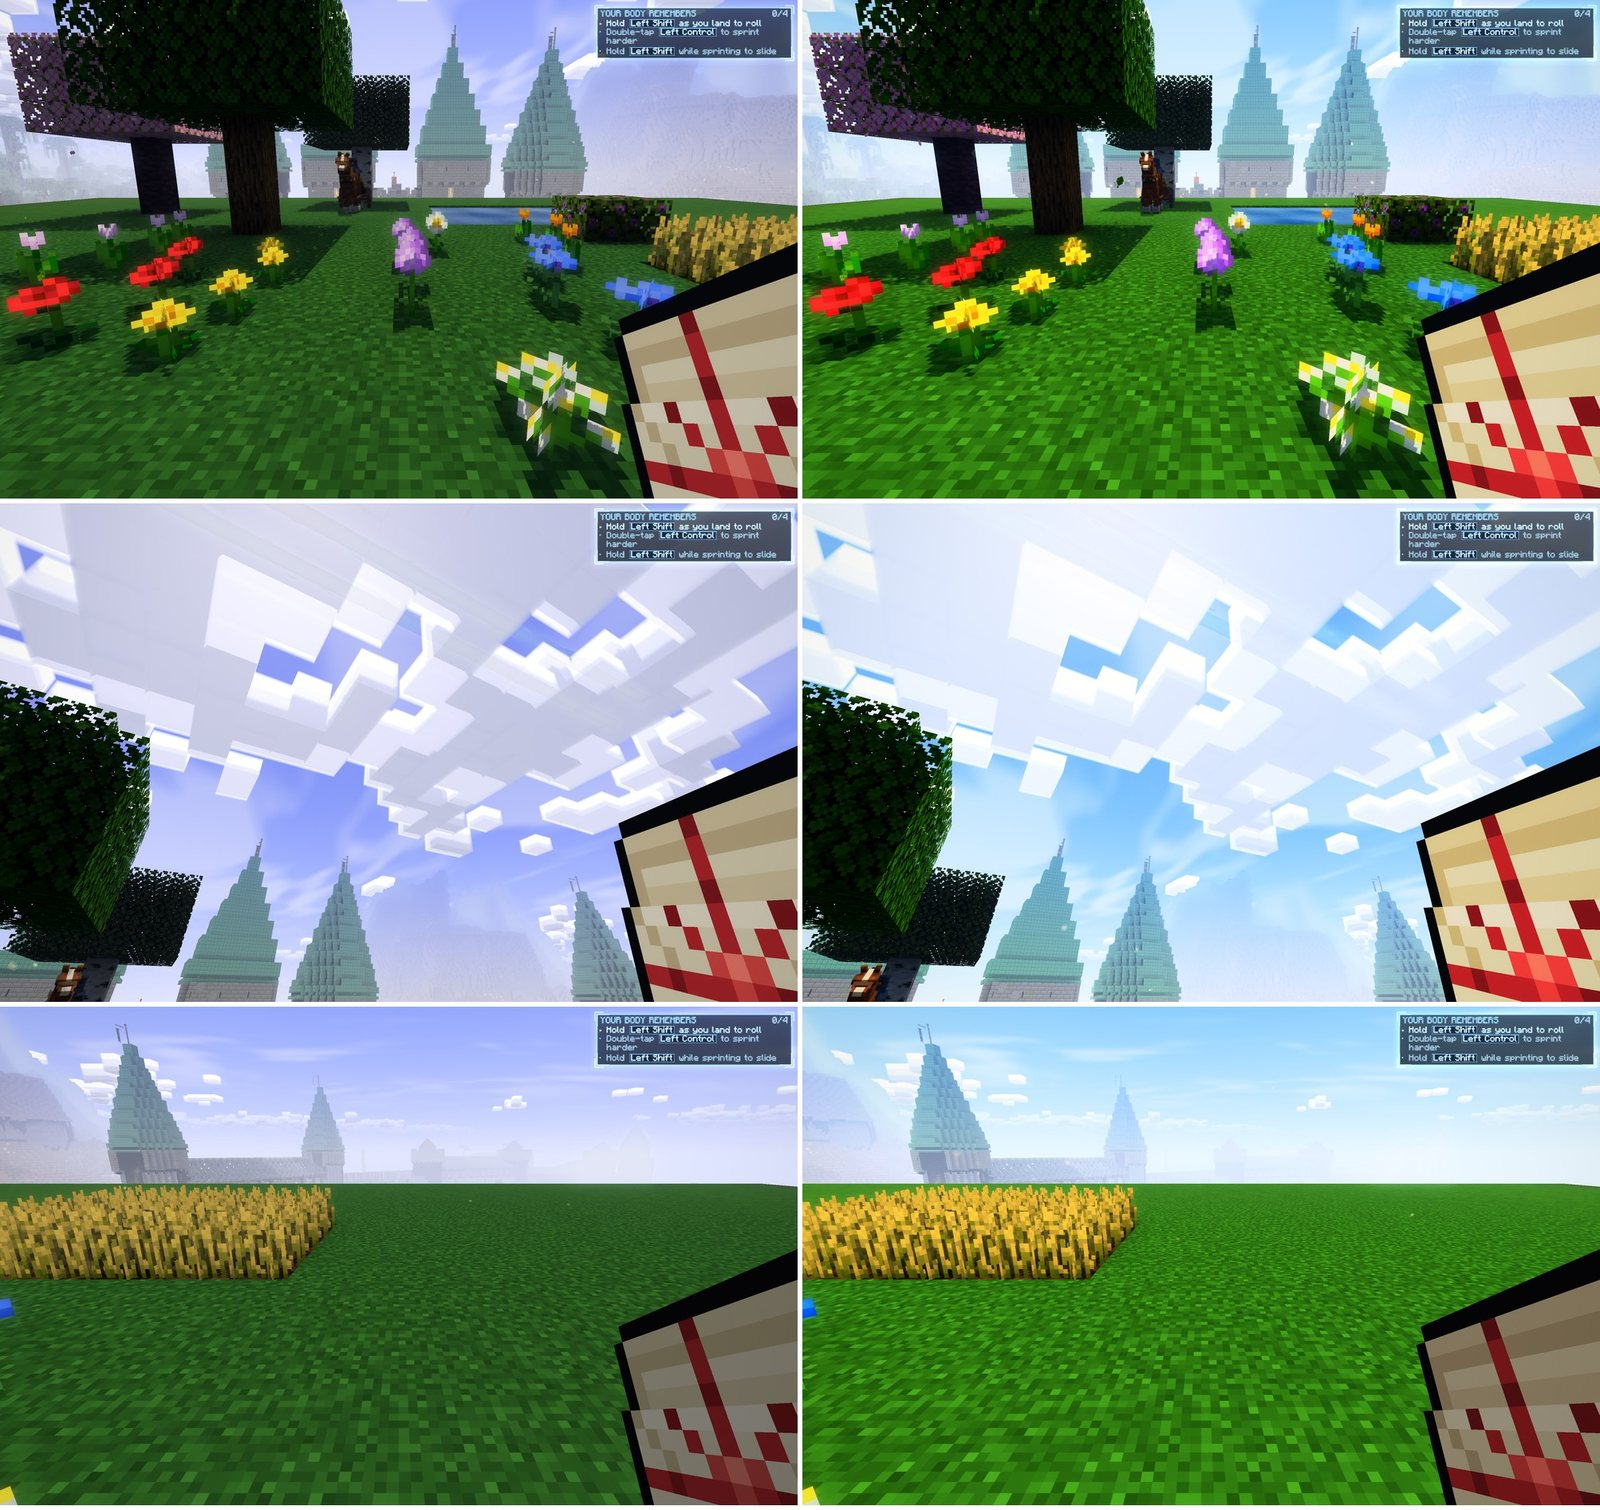
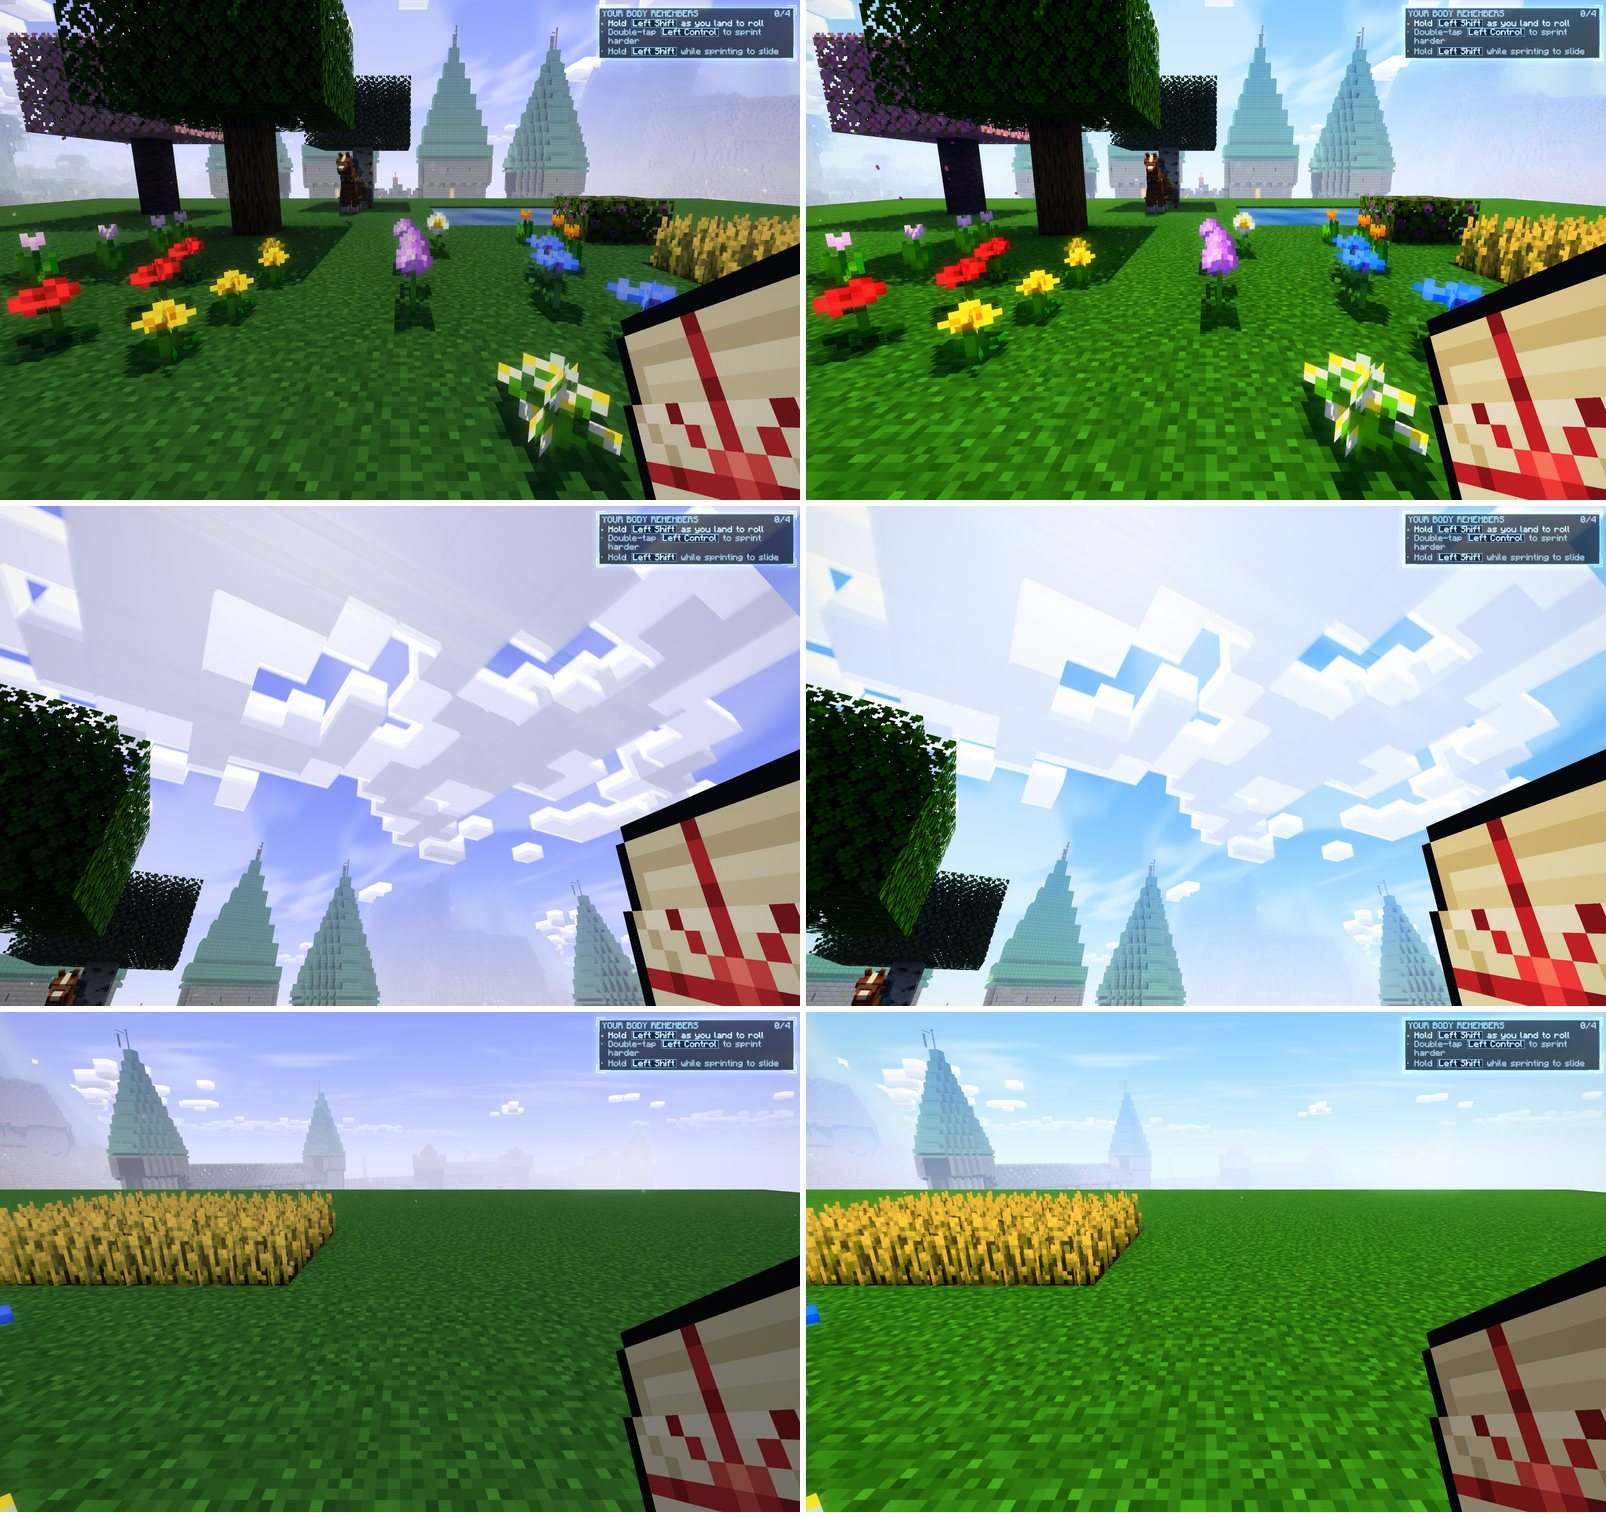
Grades: the final in-game sheets, and the runs that checked the hand-over

diff --git a/docs/perf/steady60/STATUS.md b/docs/perf/steady60/STATUS.md
@@ -37,13 +37,15 @@ https://claude.ai/artifact/Rt4U8jC2pCgf7Nc6axTXZg (source in the session's scrat
   near clouds walked inside the composite, a small sky buffer for wisps and galaxy, the sun map swept on a worker,
   the wide glow in one pass, Lens's tick work standing back after a late frame. 16 passes became 14, three
   frame-size passes became two (one with straight out. It had never engaged before 3913eb455: it was left out with
-  Steady on, and it counted a list of effects that always holds the game's own "end_of_frame" slot). **Frame times not measured yet**: that needs a quiet Mac
+  Steady on, and it counted a list of effects that always holds the game's own "end_of_frame" slot. First seen
+  engaging in run 42865863453: the picture matches with it on and off, with Steady on and off). **Frame times not measured yet**: that needs a quiet Mac
   (`tools/steady60-tour.sh tools/autopilot/steady60-dell-5.txt`). Pictures checked on CI
   (`steady60-trim-ci.txt`, `steady60-still-ci.txt`).
 - **Grades** (10 Nov, his three pictures of a vibrant look; SPEC §22 "Grades"): a colour and atmosphere choice over
   every look. A grade is a file (`assets/awaken/lens_grade/<id>.json`), the setting is `lensGrade`, the Look page
   has a COLOUR GRADE row, autopilot `lens grade <id>`. Ships Awaken (the look as built, the default) and Vivid.
-  Compared on CI with `steady60-grade-ci.txt`. Not seen by him in game yet.
+  Compared on CI with `steady60-grade-ci.txt` (final run 42865865221 on the merged tip 00547a97b). He has seen the
+  first build's pictures, not the game.
 - **Tick work evened out** (autopilot `lens cost`): a 0.5 ms limit a tick for the heightfield and the block map, near
   re-reads in turn.
 - Euan's notes, 10 Nov, three rounds, all acted on: bright rims at dusk; dark un-fogged patches; "the atmosphere

diff --git a/docs/perf/steady60/grades/README.md b/docs/perf/steady60/grades/README.md
@@ -3,12 +3,13 @@
 Each sheet has the look as built (Awaken) on the left and Vivid on the right, in the game itself, from
 `tools/autopilot/steady60-grade-ci.txt` on GitHub's Mac runners.
 
-- `vivid-1..3`: run 42860718291 at commit 578d4b545, Vivid after its first retune: morning, the sky, noon; dusk,
-  night, and Swift under both grades; the flowers from above, golden hour, rain.
+- `vivid-1..3`: run 42865865221 at commit 00547a97b (build 66e0688df merged in), Vivid as handed over: morning, the
+  sky, noon; dusk, night, and Swift under both grades; the flowers from above, golden hour, rain. Every picture in
+  this run was also drawn through straight out with the steady pass on.
 - `first-build-night-rain.jpg`: run 42853594714 at 3da61b546, Vivid as first built, kept for the fault it shows: the
-  purple allium goes blue by moonlight. The first retune halved that; the guard was then widened once more
-  (3913eb455), and that last step's in-game run is the one named in docs/perf/steady60/STATUS.md.
-- `look-page.jpg`: the Look page with its COLOUR GRADE row (before the LENS OVER FRAMES row was hidden with the Air on).
+  purple allium goes blue by moonlight. Two steps on the azure guard put that right (684fd4725, 3913eb455): red over
+  blue on that flower is 0.34 as built, was 0.21 at first, and is 0.26 now.
+- `look-page.jpg`: the Look page with its COLOUR GRADE row, LENS OVER FRAMES gone while the Air is on.
 
 Euan's three reference pictures were pasted into the session and are not files here. To try a change to a grade
 before a tour: `tools/lens/grade_preview.py`.
